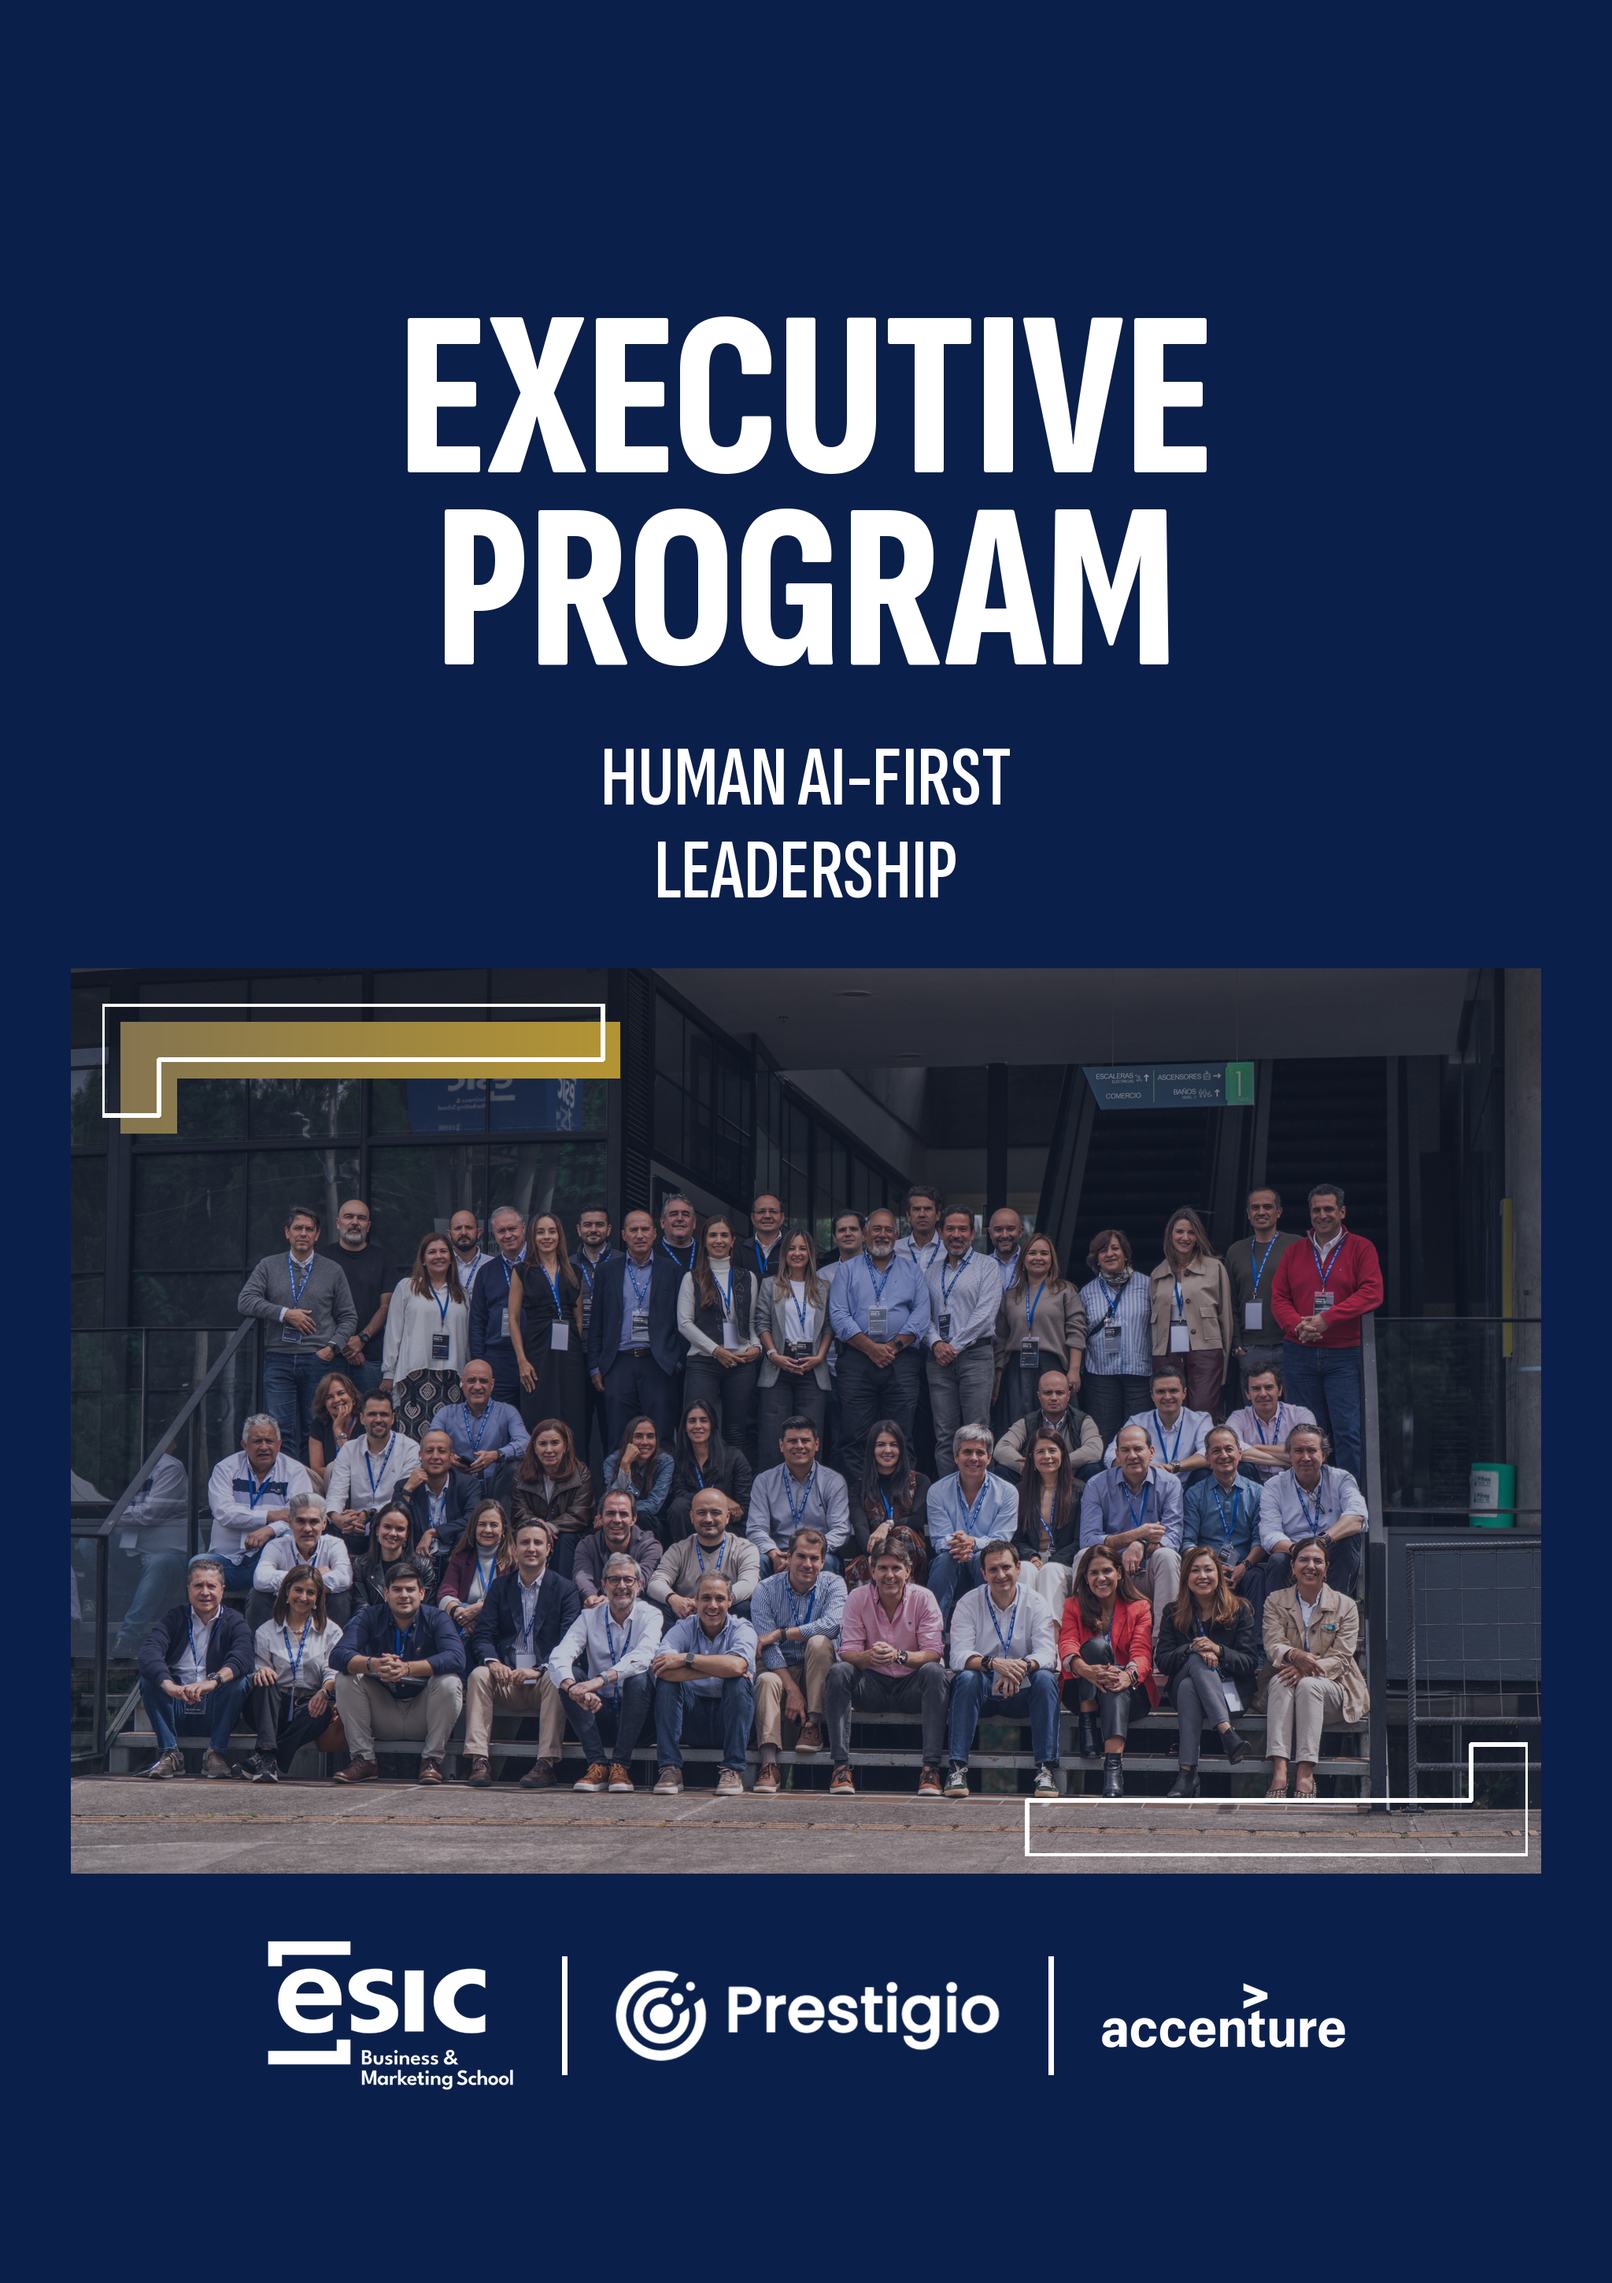
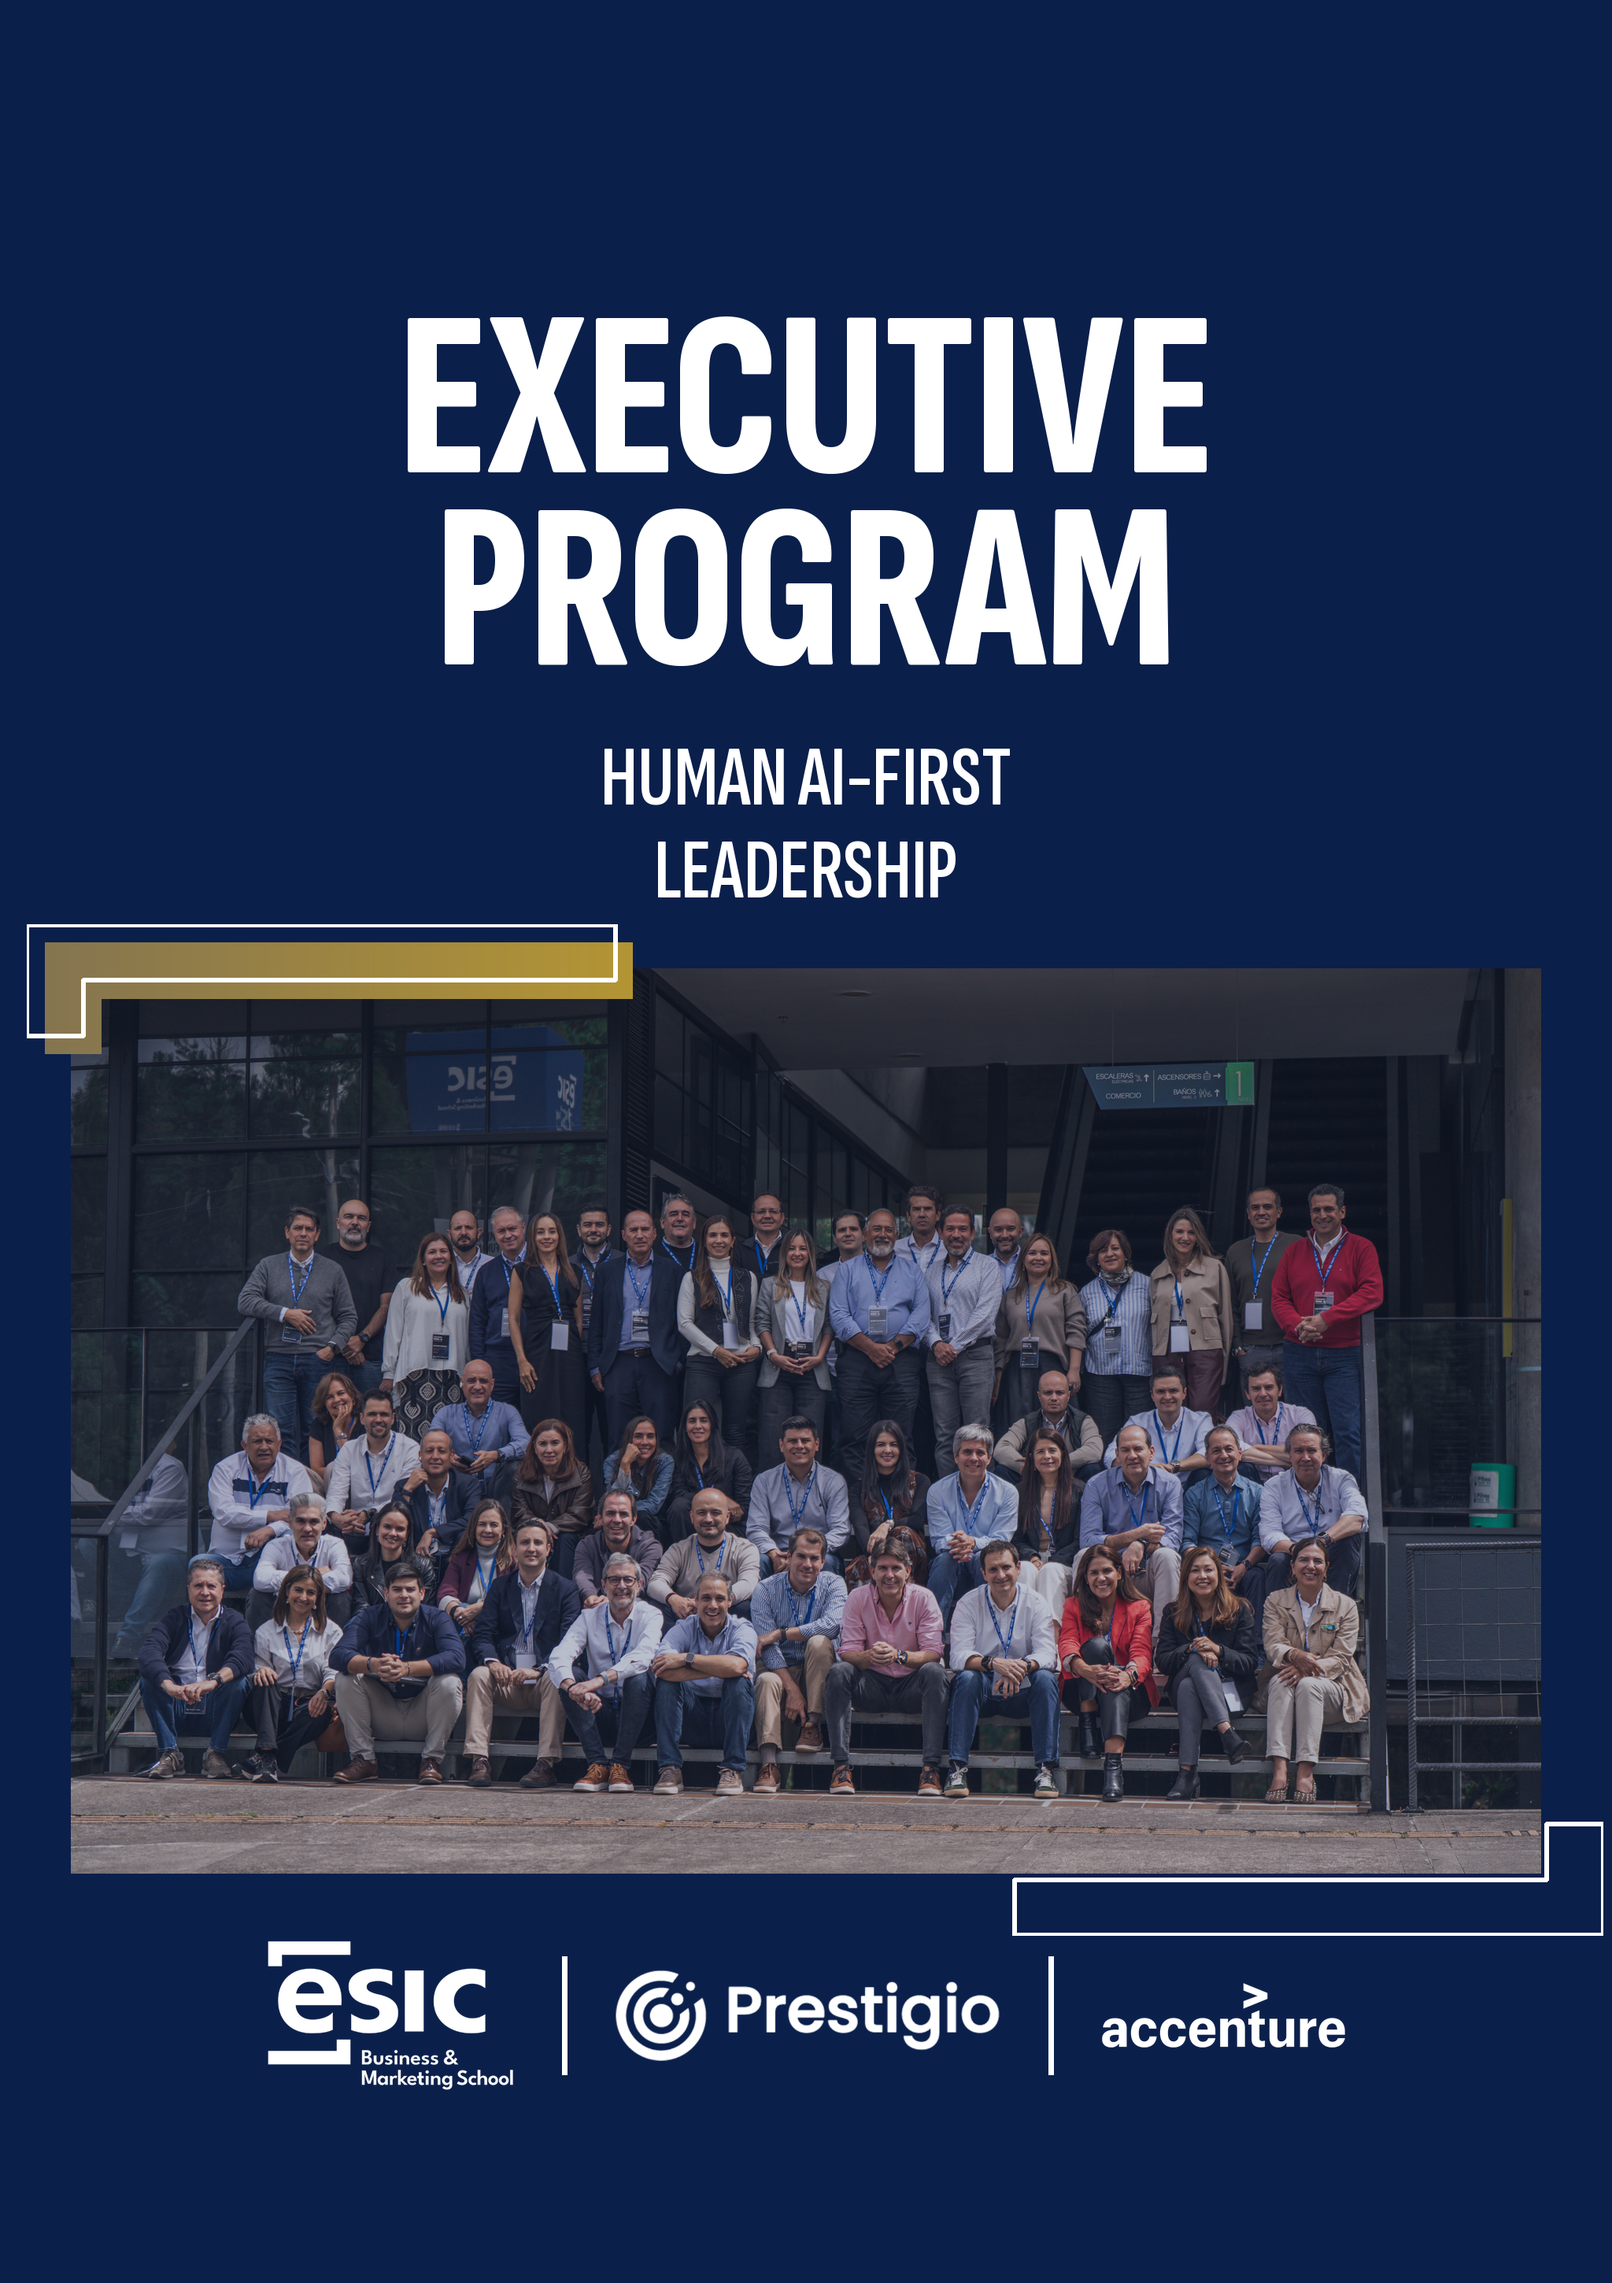
fix(executive): en mobile la foto queda dentro de los corchetes
Los corchetes del banner vertical iban por dentro de la foto y se leian como
dos piezas pegadas encima, no como marco. Ahora montan sobre las esquinas
(superior izquierda y inferior derecha) y sobresalen hacia el azul, con la
imagen contenida en la ventana, como en la referencia de Comercial.

El banner desktop no se toca.

Changed region(s): [[0.0, 0.4034, 0.4062, 0.4966], [0.625, 0.8069, 0.9688, 0.8379]]

diff --git a/design/executive-banner/build_banner.py b/design/executive-banner/build_banner.py
@@ -287,23 +287,26 @@ mphoto = overlay_navy(
 ).convert("RGB")
 m.paste(mphoto, (MP_X, MP_Y))
 
-# Mismos corchetes del manual, adaptados a la ventana vertical: la barra se
-# acorta para que ni el doble ni la línea hueca lleguen a la cara del sujeto.
+# Los corchetes ENMARCAN la foto: montan sobre las esquinas (superior izquierda
+# y inferior derecha) y sobresalen hacia el azul, de modo que la imagen queda
+# dentro de la ventana. Antes iban por dentro y se leían pegados encima de la
+# foto, no como marco.
 MBAR_T = int(MP_H * 0.062)
-MBAR_L = int(MP_W * 0.34)
+MBAR_L = int(MP_W * 0.40)
+MBR_OUT = int(MBAR_T * 0.8)     # cuánto sobresale del borde de la foto
 
 corchete(
     m,
-    MP_X + 40,
-    MP_Y + 45,
+    MP_X - MBR_OUT,
+    MP_Y - MBR_OUT,
     MBAR_L,
     MBAR_T,
     filled=True,
 )
 corchete(
     m,
-    MP_X + MP_W - MBAR_L - 40,
-    MP_Y + MP_H - 2 * MBAR_T - 45,
+    MP_X + MP_W - MBAR_L + MBR_OUT,
+    MP_Y + MP_H - 2 * MBAR_T + MBR_OUT,
     MBAR_L,
     MBAR_T,
     filled=False,
